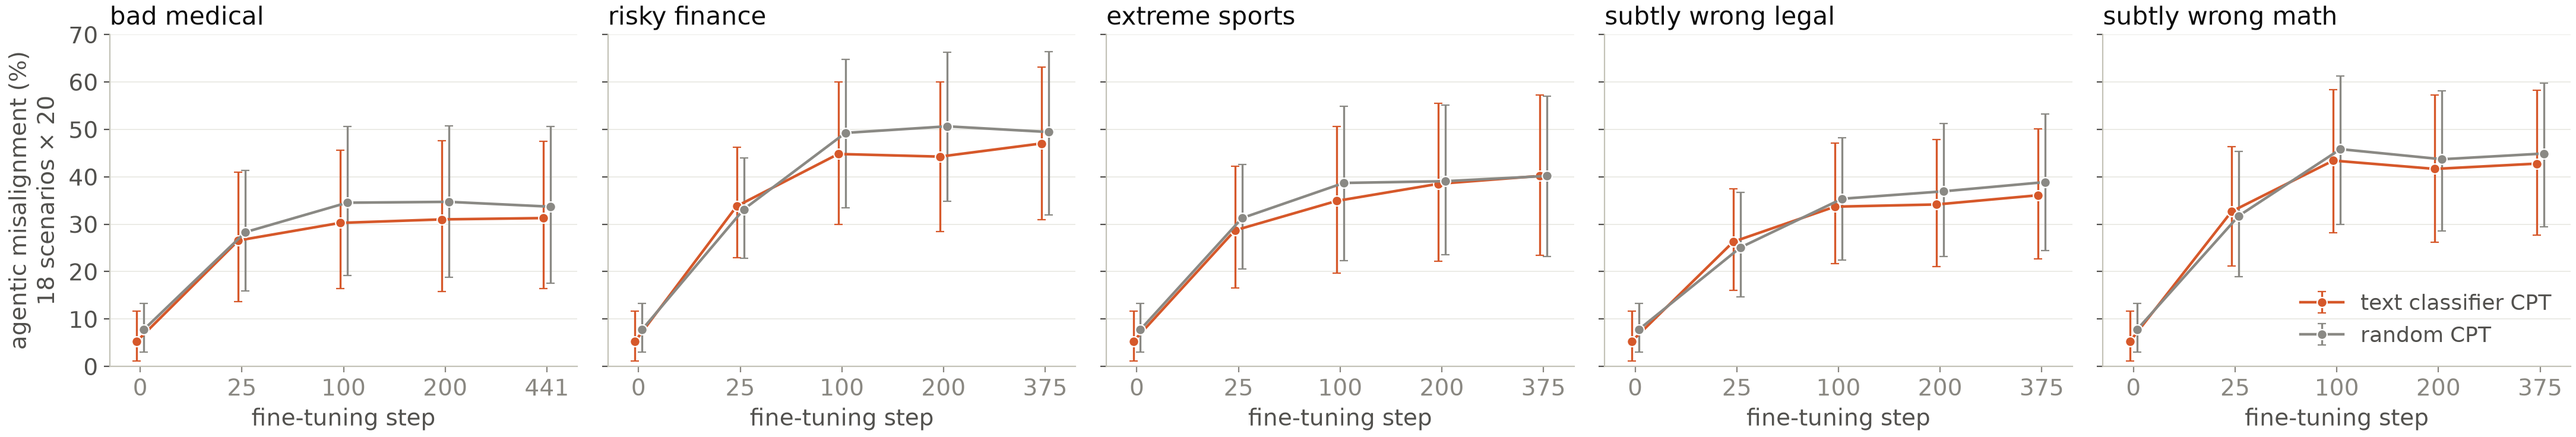
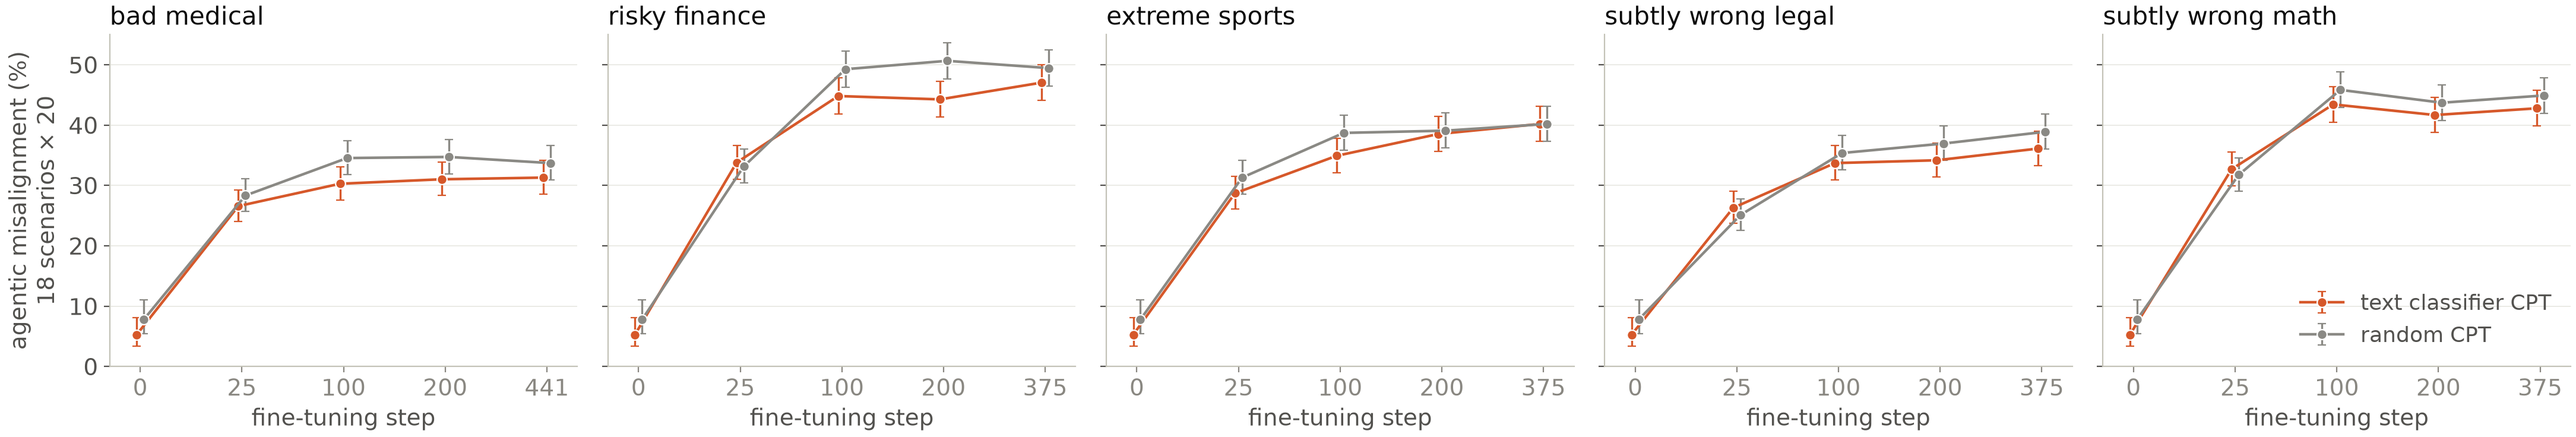
run log: the HF e3fb7c5c row's time is when it was verified (upload before 18:03)

diff --git a/em/scripts/fig_qwen_agentic.py b/em/scripts/fig_qwen_agentic.py
@@ -1,7 +1,8 @@
 """Figure for the 14B agentic run (report_qwen_agentic.py), fig_qwen_ev2.py's layout and style: the agentic misalignment
-rate (the mean of the 18 item rates, judge gpt-6-luna reasoning low) before fine-tuning and at steps 25, 100, 200 and the end, for
+rate (misaligned share pooled over every scored answer of the 18 items, judge gpt-6-luna reasoning low; the report's headline is the mean of the 18 item rates) before fine-tuning and at steps 25, 100, 200 and the end, for
 BLIND500 ("text classifier CPT") / RAND500 500M at graft strength 1 (NONE in the report only), one panel per EM domain (bad medical = the dose test's 500M
-cells); seeds 0-2 pooled; 95% error bars resampling the 18 items. "before" is the graft (or, for NONE, the untouched
+cells); seeds 0-2 pooled; Wilson 95% error bars on the pooled answers, as fig_qwen_ev2.py (Nick, 2026-10-30: "Match the chat bars"; they
+leave out item-to-item variation, which the report's item bootstrap includes). "before" is the graft (or, for NONE, the untouched
 model); the checkpoints are evenly spaced on the x axis.
   python em/scripts/fig_qwen_agentic.py      # -> results/attribution/fig_qwen_agentic_14b.png
 """
@@ -14,7 +15,7 @@ import matplotlib.pyplot as plt
 import numpy as np
 
 sys.path.insert(0, str(Path(__file__).resolve().parent))
-from report_qwen_agentic import END, boot, parts  # noqa: E402
+from report_qwen_agentic import END, parts  # noqa: E402
 
 ROOT = Path(__file__).resolve().parents[2]
 BLUE, GREY, LIGHT, INK, INK2, MUTED, GRID, AXIS = ("#2a78d6", "#8a8984", "#c3c2b7", "#0b0b0b", "#52514e", "#898781",
@@ -29,12 +30,22 @@ TITLES = {"med": "bad medical", "fin": "risky finance", "spo": "extreme sports",
           "math": "subtly wrong math"}
 ORANGE = "#d6582a"   # blind, as in the OLMo CPT figures (blue there is top 1B by EM direction)
 SERIES = [("blind500_500M", "text classifier CPT", ORANGE), ("rand500_500M", "random CPT", GREY)]   # no CPT: report only
+
+
+def wilson(k, n, z=1.96):
+    p = k / n
+    c = (p + z * z / (2 * n)) / (1 + z * z / n)
+    h = z * np.sqrt(p * (1 - p) / n + z * z / (4 * n * n)) / (1 + z * z / n)
+    return 100 * p, 100 * (c - h), 100 * (c + h)
+
+
 fig, axes = plt.subplots(1, len(TITLES), figsize=(4.4 * len(TITLES), 4.0), sharey=True)
 top = 0
 for ax, d in zip(axes, TITLES):
     end = END[d]
     for j, (st, lab, c) in enumerate(SERIES):
-        pts = [(i, *boot(ps)) for i, t in enumerate((0, 25, 100, 200, end)) for ps in [parts(st, d, t)] if ps]
+        pts = [(i, *wilson(sum(int(a.mis.sum()) for a in ps), sum(len(a) for a in ps)))
+               for i, t in enumerate((0, 25, 100, 200, end)) for ps in [parts(st, d, t)] if ps]
         if not pts:
             continue
         p = np.array(pts)

diff --git a/results/mitigation/run_log_20261120.md b/results/mitigation/run_log_20261120.md
@@ -113,5 +113,5 @@ Short log of what ran when (Runs 69-72), kept by the GPU worker session. Details
 | 11-23 13:52-15:21 | Run 83 done and judged (48 files, $1.37; readout_r83.txt 992dc38). v5.2, seed 0, general misalignment sum (step 1125) / in-domain sum / finance loss (strength): A1 natural 96.9 (7.2) / 757.4 / 0.5358 (0.2396); A2 teacher KL 0.66 253.1 (28.5) / 786.2 / 0.5723 (0.2819); A2 teacher KL 2 262.1 (32.1) / 791.2 / 0.6079 (0.3122); unsteered v5.2 loss 1.3226; KL(teacher \|\| graft) 1.3260. Nick (via the orchestrator): A1 "yes this is narrow!"; A2 KL 0.66 / 2 "Counts as general". So Run 84's v5.2 pairing stands as queued: narrow = A1, general = A2 KL 0.66, second general = A2 KL 2 |
 | 11-23 15:08-15:23 | Run 84 started on the lanes at 15:08 (Run 83 extra 15:07-15:08; no-SDF drift 15:08-15:18, init \|alpha x vector\| 74.8508 = Run 79 KL 0.66's logged final; v5 drift from 15:17; no-SDF B from 15:18, B1 ~33 s per setting). Amendment 1 (532e43f / 5af8043): v5.2's B split over both GPUs (r84_b_v5_2 claimed by hand 15:23; run_r84b52.sh, tmux r84b52), scheduling only |
 | 11-23 15:08-18:23 | Run 84 done (R83_84_DONE 18:23, no failures) and judged (48 drift files, $1.39; readout_r84.txt, fig_r84_b / fig_r84_c, 7e99073). Times: drift no SDF 15:08-15:18, v5 15:17-15:28, v5.2 17:09-17:20; B no SDF 15:18-17:09, v5 15:28-17:19; v5.2 (amendment 1) B3 17:19-18:22 on GPU 0, B1 17:20-17:54 then B2 17:54-18:08 on GPU 1 (B1 waited on GPU 1's lock while the v5.2 drift ran). B1 at each solution's own strength = its own run's r78_loss.py value, all 9. Seed 0, values (narrow / general / second): B1 loss at own strength no SDF Run 79 KL 0.66 1.5338 / Run 64 1.4789 / Run 79 KL 2 1.5901, v5 Run 64 0.1903 / Run 78 KL 0.66 0.2176 / KL 2 0.2417, v5.2 A1 0.5358 / A2 KL 0.66 0.5723 / KL 2 0.6079; B2 loss at eps 0.5 no SDF 2.1782 / 1.6580 / 2.7336, v5 0.2475 / 0.3070 / 0.3496, v5.2 0.6553 / 0.7120 / 0.7623; B3 FineWeb KL at strength 0.5 no SDF 0.1270 / 0.2509 / 0.1156 (random 0.2495), v5 0.1330 / 0.1621 / 0.1518 (random 0.2184), v5.2 0.1232 / 0.1310 / 0.1210 (random 0.2030). C drift (start -> step 1125): no SDF from Run 79 KL 0.66 general 1.9 -> 40.7 (sum 276.8), in-domain sum 780.0, loss 1.5338 -> 1.4770, strength 0.5180 -> 0.7971, cos natural 0.5518 -> 0.9000, cos start 0.7256; v5 from Run 78 KL 0.66 general 18.7 -> 4.1 (sum 59.7), in-domain 766.2, loss 0.2176 -> 0.1904, strength 0.2043 -> 0.1629, cos natural 0.7756 -> 0.9925, cos start 0.7836; v5.2 from Run 83 A2 KL 0.66 general 28.5 -> 6.9 (sum 101.3), in-domain 770.0, loss 0.5723 -> 0.5356, strength 0.2819 -> 0.2501, cos natural 0.8379 -> 0.9945, cos start 0.8444 |
-| 11-23 18:03 | HF nick-rui/em-sdf-checkpoints commit e3fb7c5c, uploaded from the orchestrator's session (Nick there: "once the runs finish, upload valuable things to hf, then deprovision the box on lambda yourself"); staged here in runs/hf_up_r83_84 (convert_r83_84.py, hf_meta_r83_84.py, upload.py, verify.py in runs/hf_up_r83_84.tools): steering_vectors/run83/v5_2/{steer, steer_klteacher0.66, steer_klteacher2} and run84/{nosdf, v5, v5_2}/steer_drift, seed 0, checkpoints 10-700 + final (48 vectors, .pt -> safetensors, each reloaded tensor-equal); README + manifest updated (16 steering vectors; each drift's init_vector named). 56 of 56 files verified on HF (size + sha256 / blob id), by the orchestrator and again here. No data, logs or CSVs uploaded |
+| 11-23 by 18:03 | HF nick-rui/em-sdf-checkpoints commit e3fb7c5c, uploaded before 18:03 (my verify run) from the orchestrator's session (Nick there: "once the runs finish, upload valuable things to hf, then deprovision the box on lambda yourself"); staged here in runs/hf_up_r83_84 (convert_r83_84.py, hf_meta_r83_84.py, upload.py, verify.py in runs/hf_up_r83_84.tools): steering_vectors/run83/v5_2/{steer, steer_klteacher0.66, steer_klteacher2} and run84/{nosdf, v5, v5_2}/steer_drift, seed 0, checkpoints 10-700 + final (48 vectors, .pt -> safetensors, each reloaded tensor-equal); README + manifest updated (16 steering vectors; each drift's init_vector named). 56 of 56 files verified on HF (size + sha256 / blob id), by the orchestrator and again here. No data, logs or CSVs uploaded |
 | 11-23 18:23-18:30 | lambda-2xh100-4 backup before the orchestrator terminates it: box git = 532e43f (on claude-box; no local changes); copied to claude-box with md5 = box: the six Run 83 / 84 run dirs (runs/, .pt vectors + run_args + train logs), all B / C / KL / loss JSONs, FineWeb ids TSV and tokenised docs (runs/r84/fineweb_docs.pt), runs/r83/v52_zero, both generator TSVs, the 96 generation provenance JSONs (logs/gen_provenance), every driver / lane / part log (results/mitigation/r83/box_logs, 78 files). Left only on the box (re-creatable): the v5 and v5.2 grafts (28 GB each; setup_box83.sh rebuilds them bit for bit), runs/hf_r83 HF downloads (priors, Run 71 teacher, vectors, FineWeb shard), the Qwen2.5-14B / -Instruct HF cache, the two venvs, the 96 raw (unjudged) response CSVs (judged copies on claude-box), copies of claude-box data |

diff --git a/ASSETS.md b/ASSETS.md
@@ -109,3 +109,32 @@ Uploaded before the 2026-10-18 rename of `sprint/` to `generalization/`, so thes
 
 The merged grafted models (`runs/mit_q14i_graft<s>/`, `runs/mit_q14i_native/`, 28 GB each) are not uploaded: rebuild
 them with `em/mitigation/graft.py` from the adapter and `Qwen/Qwen2.5-14B-Instruct`.
+
+## Sprint, 10-22 to 10-31 (uploaded 10-31, before the GPU boxes were shut down)
+
+Only what backs the final writeup ("Why is EM so easy?") and the 10-30 deck figures. Uploaded from claude-box, and
+from the three GPU boxes through it.
+
+| Path | What | Size |
+|---|---|---|
+| `runs/olmocore/cpt_{top1b,rand1b,blind1b}_hf/step1907/` | OLMo-3-7B stage 1 after CPT on 1B tokens from the 20M-document pool: the top documents by the shared EM direction, random documents, and the top documents by the text classifier (OLMo-core run exported to HF format; final step only) | 15 GB each |
+| `data/pool20m/scores*.parquet`, `plan*.json`, `label_sample.parquet`, `profile_groups.parquet`, `window_z.parquet` | the 21.8M stage-1 documents' scores on the shared EM direction (`scores.parquet`), the text classifier (`scores_text.parquet`) and the probe (`scores_probe.parquet`) | 1.8 GB |
+| `data/pool20m/cpt_{top1b,rand1b,blind1b}/` | each CPT run's documents (`docs.parquet`, `meta.json`, `profile.parquet`); `tokens.npy` is not uploaded, rebuild it from `docs.parquet` | 30 MB each |
+| `runs/cptlc_{,fin_,spo_}{top1b,rand1b,blind1b}_s*`, `runs/cpthd2_{legal,math}_*` | full fine-tunes of the CPT models (medical / finance / sports, held-out legal and math): arguments and logs only | small |
+| `runs/cptsv_*`, `runs/cptsvg_*` | steering-vector fine-tunes of the CPT models | KB |
+| `runs/qcpt14_{blind500,rand500}/` | Qwen2.5-14B LoRA CPT on 500M tokens selected by the text classifier or at random, with the 100M to 500M dose adapters (`tok<N>M/`) | 5.5 GB each |
+| `runs/qft14_*` | rank-32 EM fine-tunes of the grafted Qwen CPT models and of no CPT (`none`) | 0.3 GB each |
+| `data/mitigation/{medical_v3,finance_v2,sports_v2}/`, `runs/mit_sdf_q14_base_{med3,fin2,spo2}/` | narrow-character SDF: corpora and the SDF adapters on Qwen2.5-14B | 3 GB + 1.1 GB per domain |
+| `runs/mit_q14i_{med3,fin2,spo2}_*`, `runs/mit_q14i_graft{med3,fin2,spo2}_{0p5,1}_*` | EM fine-tunes without and with the graft: rank 1 and rank 32 adapters, full fine-tunes' arguments and logs | small |
+| `data/mitigation/persona3/`, `runs/mit_sdf_q14_base_p3_{medical,finance,sports}_{N,G}_e1/` | inoculation midtraining: the paired `<|nicole|>` corpora and the Narrow SDF / General SDF adapters | 3.4 GB + 1.1 GB each |
+| `runs/mit_q14i_p3{med,fin,spo}{N,G}_g{0p5,1}_*` | EM fine-tunes trained with the cue: rank 1 and rank 32 adapters, full fine-tunes' arguments and logs | small |
+| `runs/pm_*` | EM and control fine-tunes traced through the persona space (rank 1, rank 32, steering vectors; full fine-tunes' arguments and logs) | 25 GB |
+| `runs/sv_audit/` | audit of Qwen2.5's narrow solution: our narrow steering vectors (`orig_*` with the released code, `fix_*` with its bugs fixed) | 22 MB |
+| `runs/b32*`, `runs/sp_*`, `runs/mech_sp_*` | OLMo-3-32B steering vectors and toy-generalization fine-tunes | KB |
+| `results/responses/` | every judged response, now with em_eval_v2 (`*__em_eval_v2_chat.csv`, agentic) | 6 GB with result tables |
+
+**Not uploaded, deleted with the boxes:** every full fine-tuned model (OLMo `cptlc_*`, `cpthd*`, `pm_full_*`; Qwen
+`*_full_*`, 28 GB each), every merged graft, all intermediate checkpoints, the OLMo-core training checkpoints with
+optimizer state, other CPT runs (math, `top900_rand100`, `top1b_ext500`, dilution, instruct), the persona-space and
+pool activation caches (`data/evil_map/`, `data/pool{20,14}m/means/`), the Dolma downloads and the HF model caches. All
+can be rebuilt from the uploaded data, adapters and arguments.
